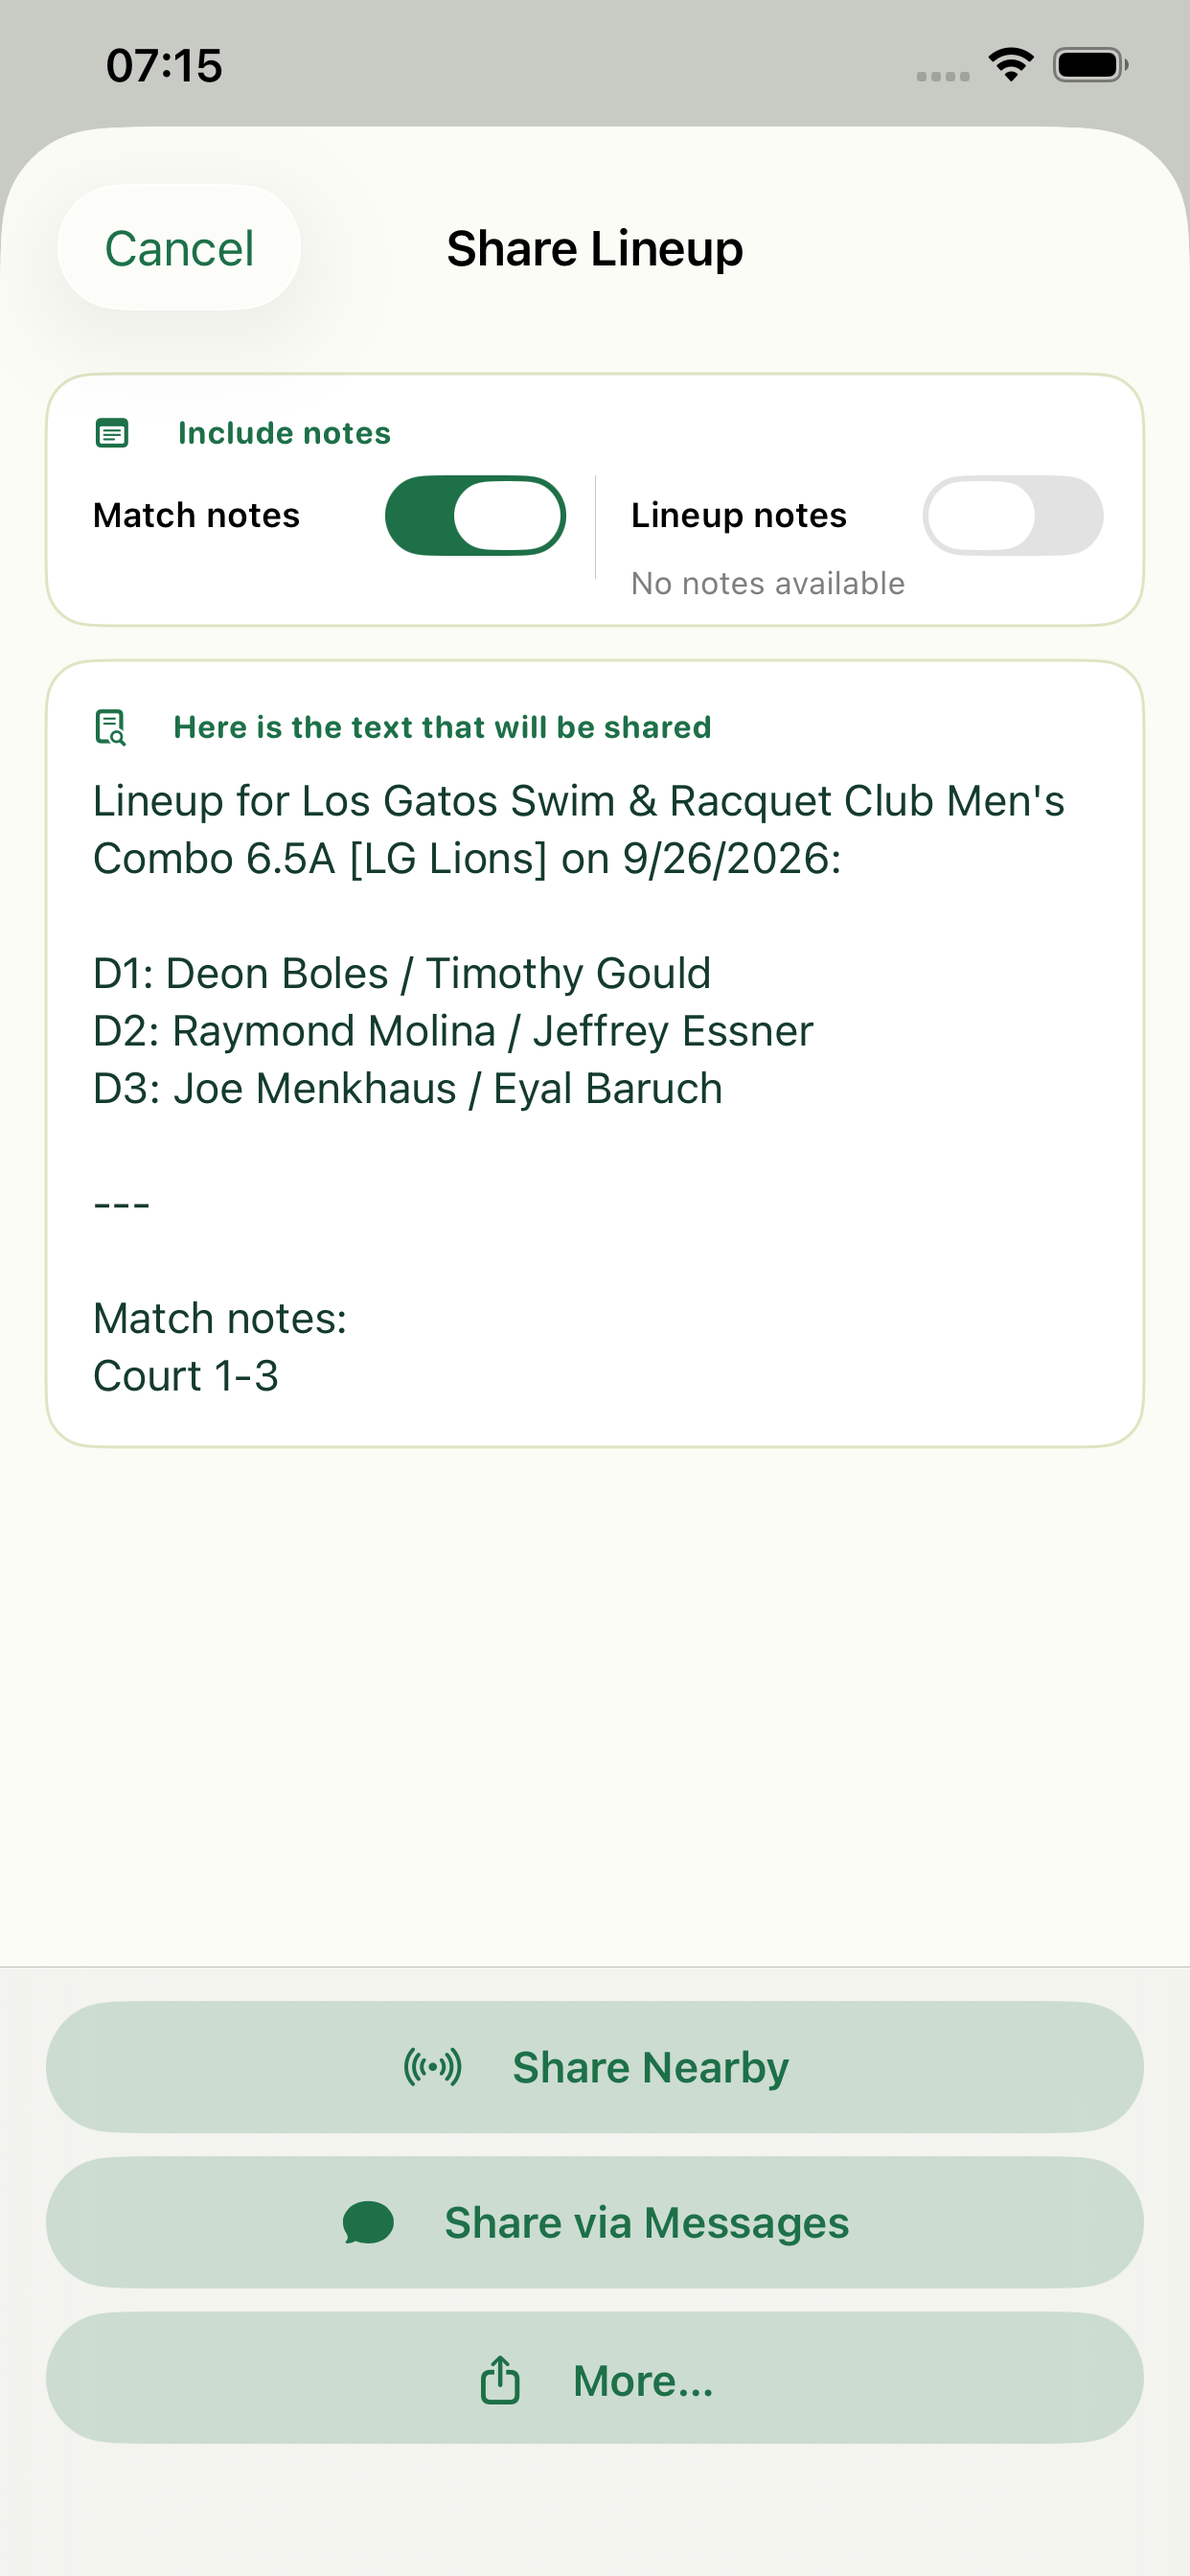
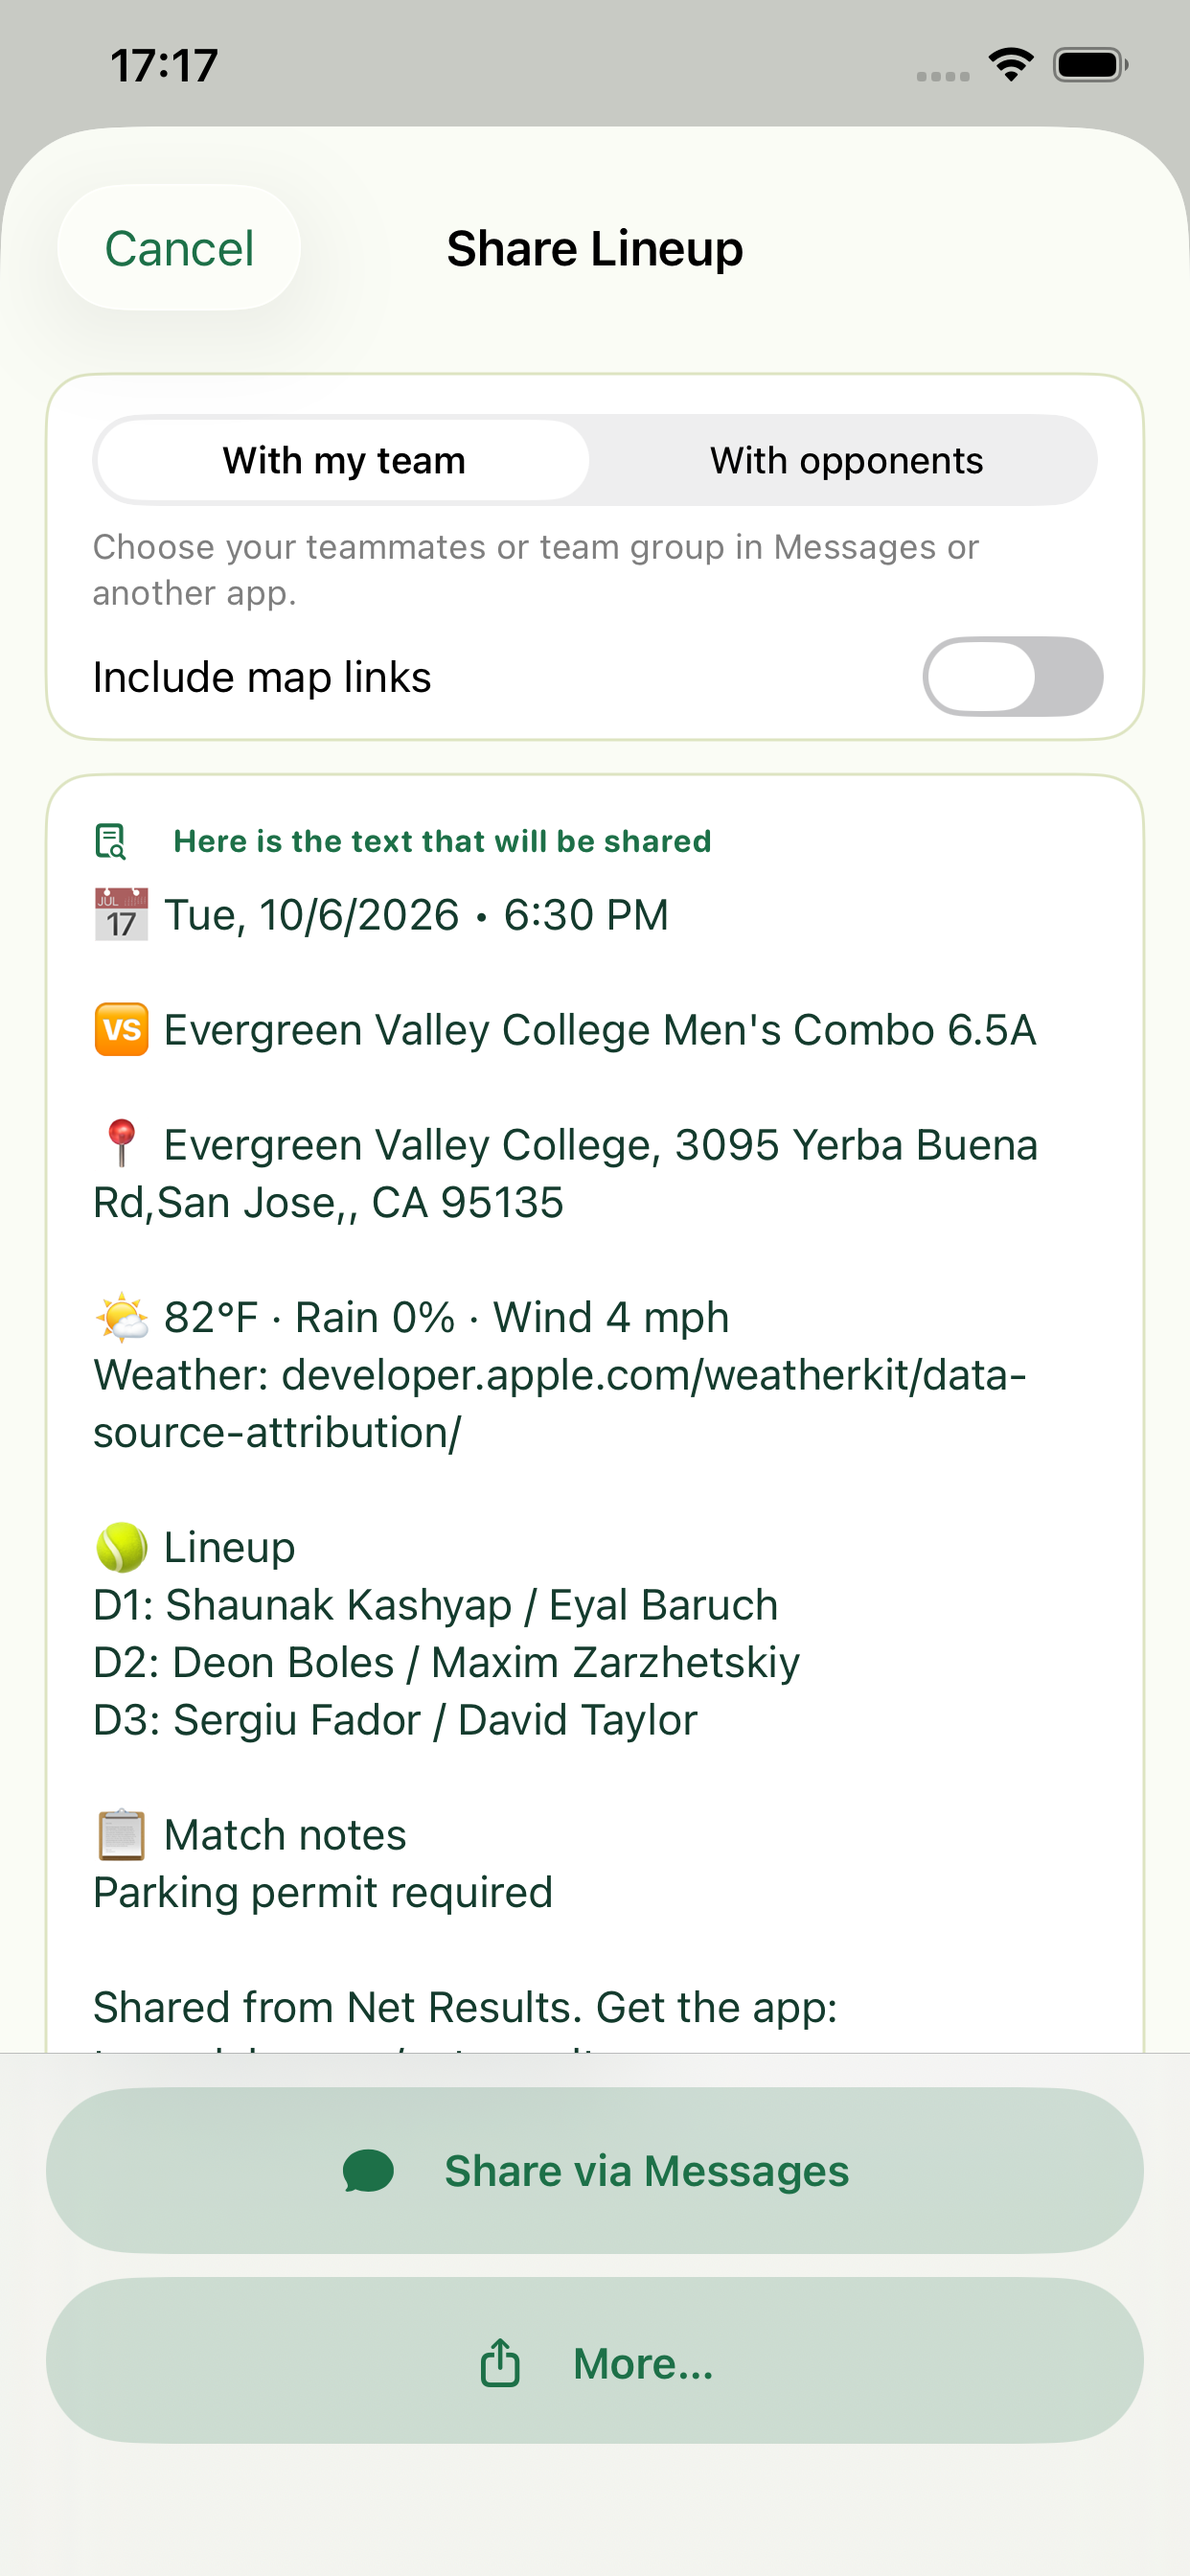
Refresh lineup sharing screenshot and website copy

diff --git a/net-results/index.html b/net-results/index.html
@@ -630,9 +630,9 @@
           <article id="sharing" class="carousel-copy" data-slide="16" aria-hidden="true">
             <h2>Share the lineup in a tap</h2>
             <ul>
-              <li>Just bring your phone on match day</li>
-              <li>Send directly to nearby Net Results users</li>
-              <li>Or text it to them</li>
+              <li>Choose details for your team or opponents</li>
+              <li>Share venue, weather, and notes with your team</li>
+              <li>Send through Messages or other apps</li>
             </ul>
           </article>
 
@@ -747,7 +747,7 @@
             <img src="screenshots/18-lineup-planner-captain.png" alt="Captain lineup planner with editable pairings, automatic saving, notes, and visibility controls" width="1242" height="2688" loading="lazy">
           </button>
           <button class="carousel-shot" type="button" data-index="16" tabindex="-1" aria-label="Show feature: Share the lineup in a tap">
-            <img src="screenshots/04-lineup-sharing.png" alt="Published lineup with sharing options" width="1242" height="2688" loading="lazy">
+            <img src="screenshots/04-lineup-sharing.png" alt="Lineup sharing with team and opponent audiences, optional map links, weather, lineup, and match notes" width="1242" height="2688" loading="lazy">
           </button>
           <button class="carousel-shot" type="button" data-index="17" tabindex="-1" aria-label="Show feature: Find a player or team in seconds">
             <img src="screenshots/12-search-results.png" alt="Player and team search results" width="1242" height="2688" loading="lazy">
